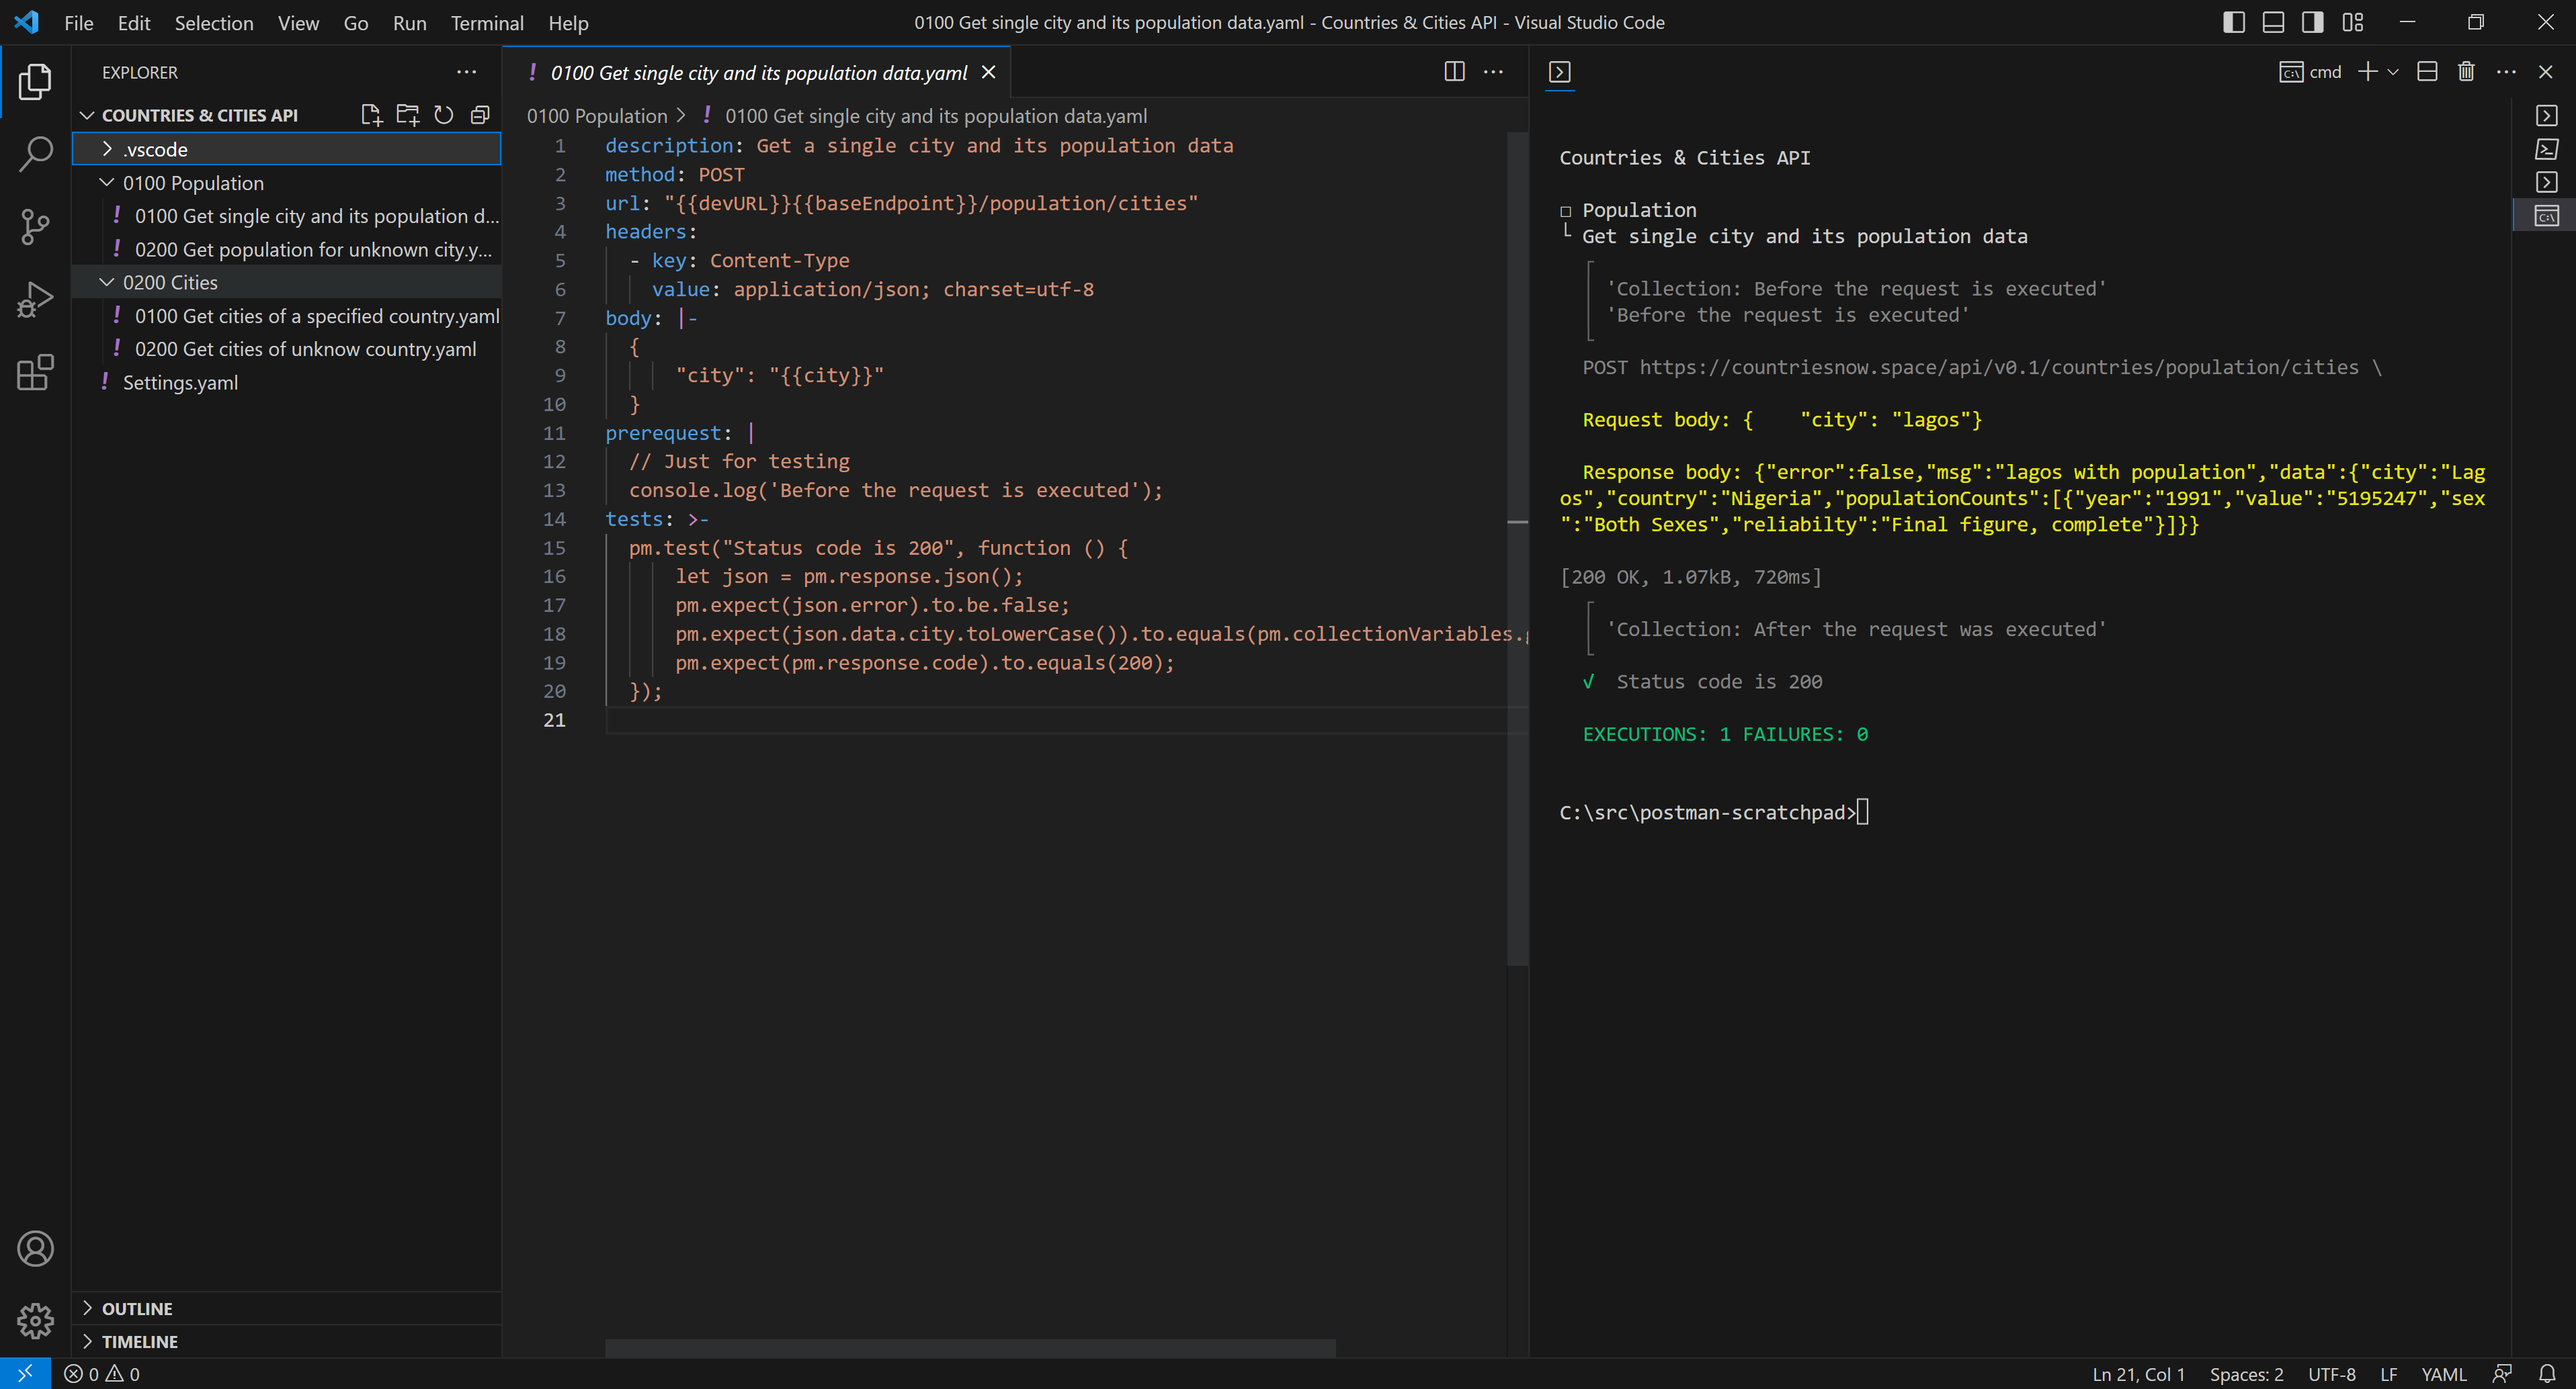
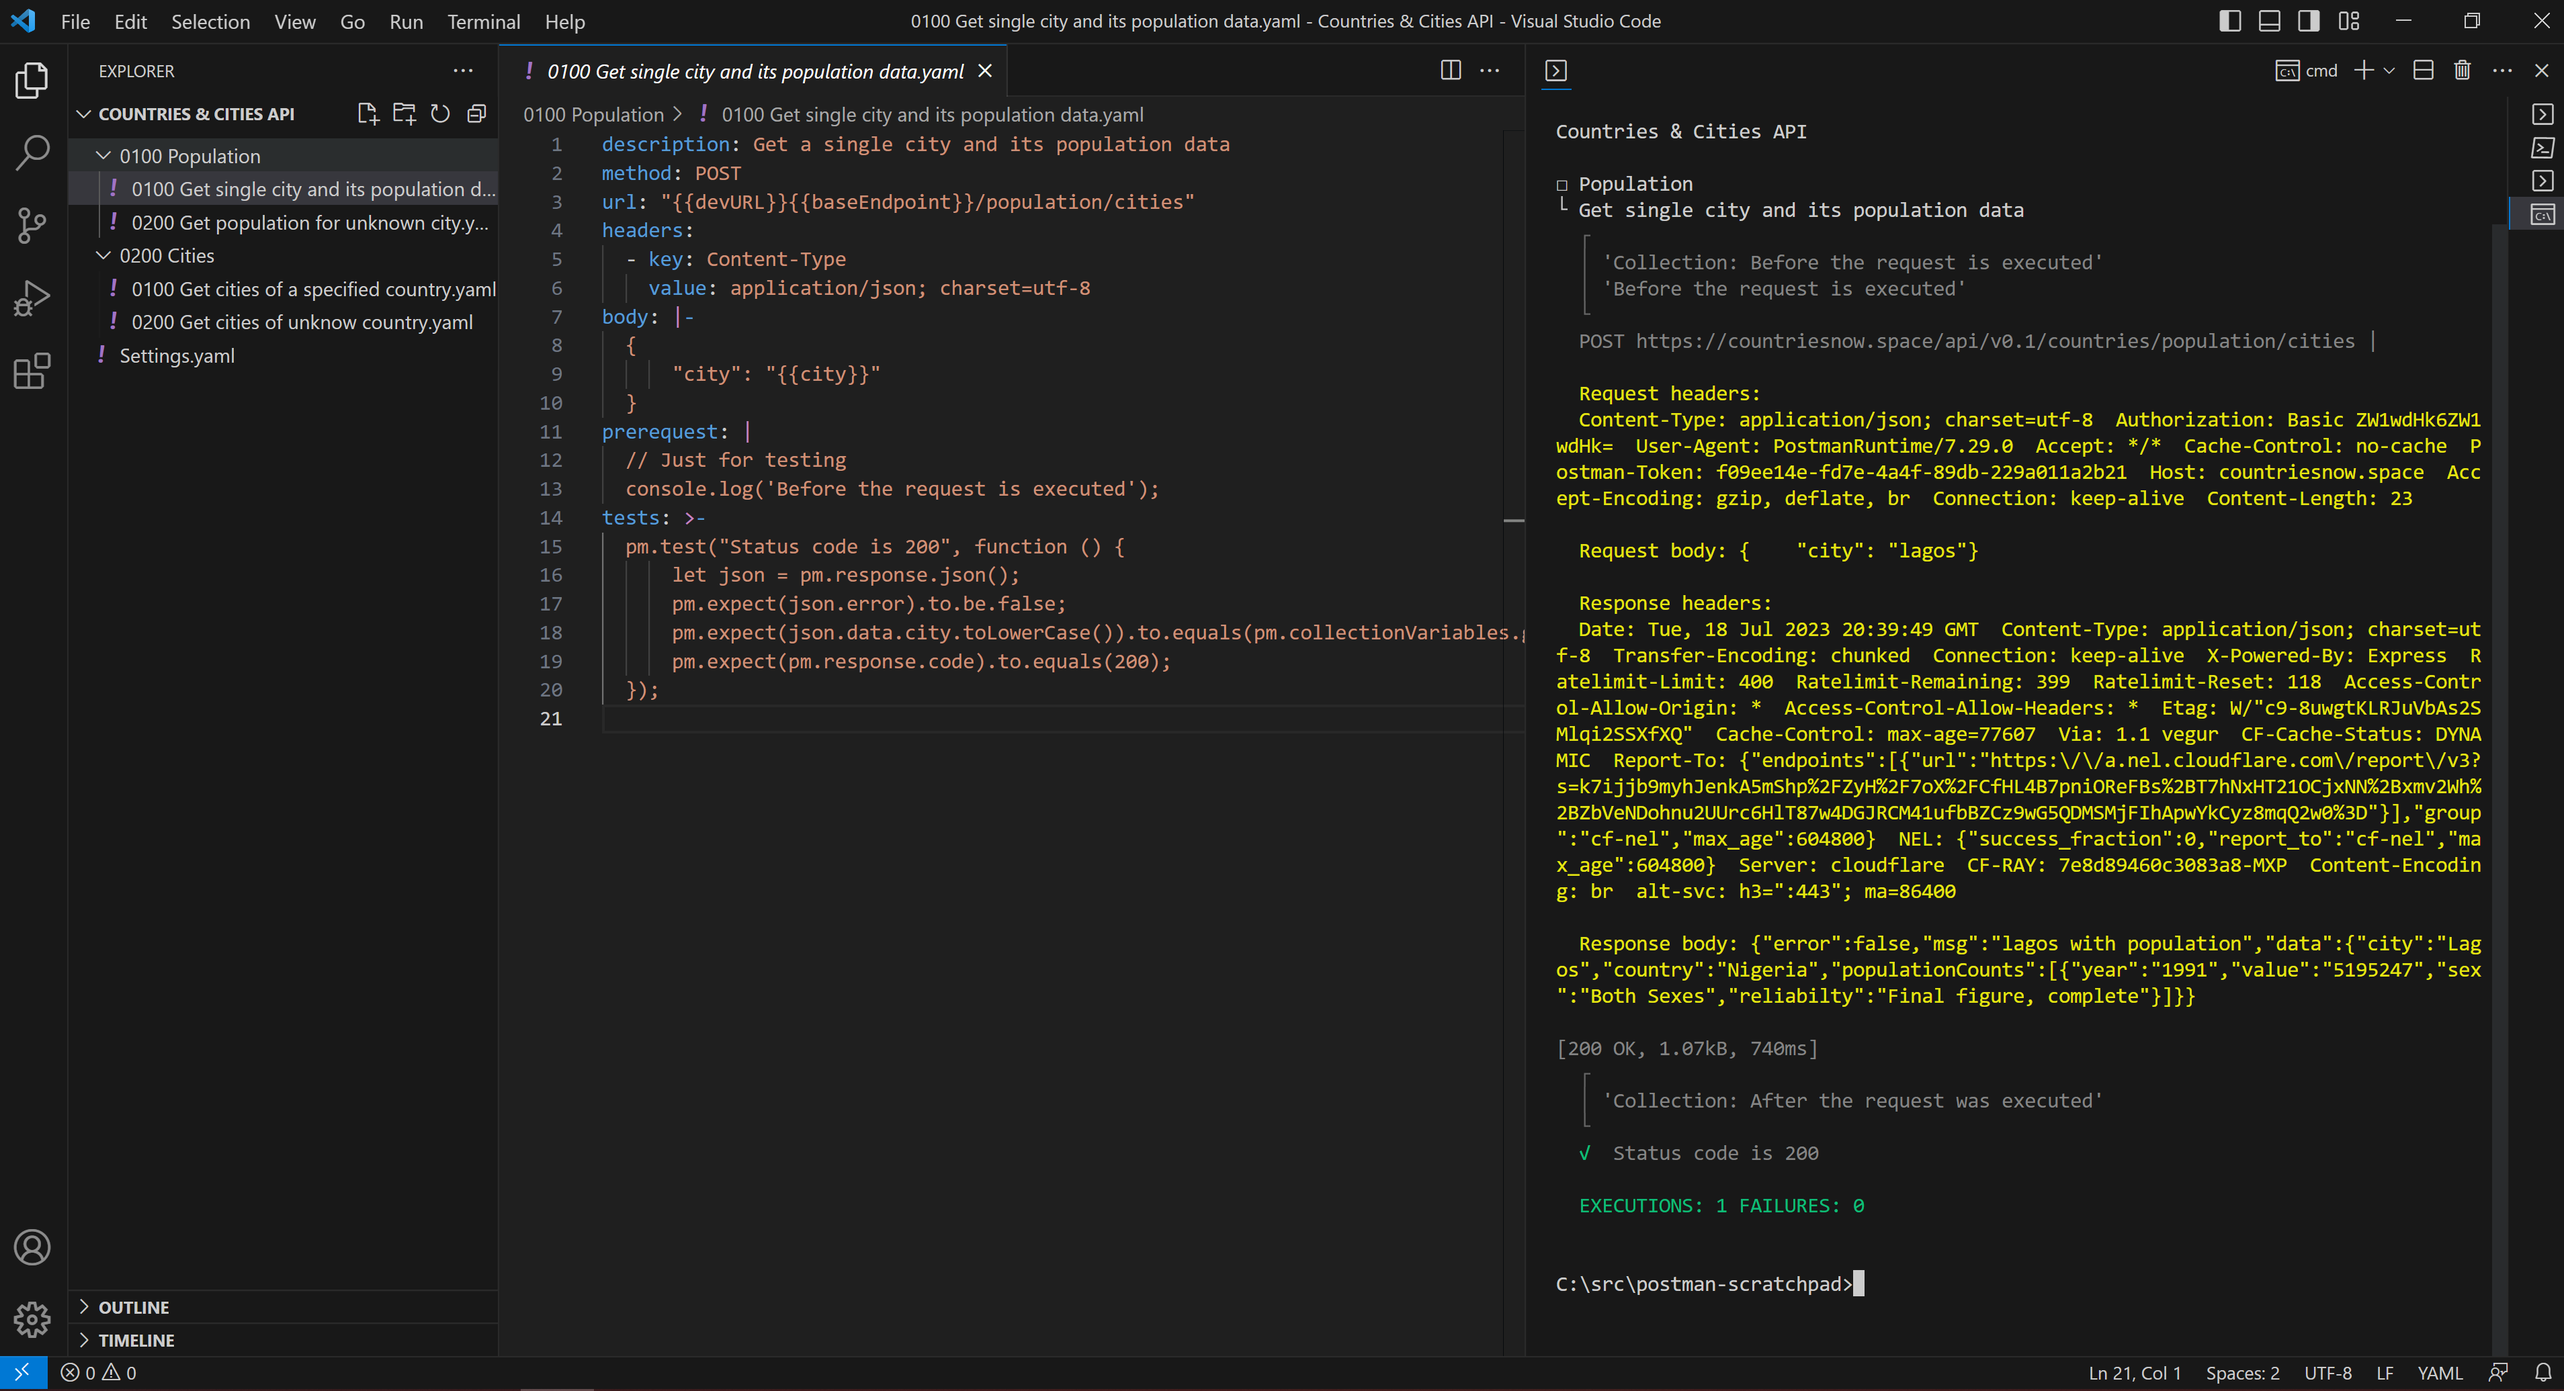
implement run.ts

diff --git a/run.ts b/run.ts
@@ -51,13 +51,25 @@ function main(args:string[]) {
 }
 
 function logRequestResponse(args: any) {
+  if (args.request.headers && args.request.headers.members) {
+    logHighlighted(`\n\n  Request headers: `);
+    args.request.headers.members.forEach(header => {
+      logHighlightedNoLn(`  ${header.key}: ${header.value}`)
+    });
+  }
   if (args.request.body) {
-    let req: string = '\n  Request body: ' + args.request.body.raw.replace(/\n/g, '');
-    logRequestResponseBody(req);
+    let req: string = '\n\n  Request body: ' + args.request.body.raw.replace(/\n/g, '');
+    logHighlighted(req);
+  }
+  if (args.response.headers && args.response.headers.members) {
+    logHighlighted(`\n  Response headers: `);
+    args.response.headers.members.forEach(header => {
+      logHighlightedNoLn(`  ${header.key}: ${header.value}`)
+    });
   }
   if (args.response.stream) {
-    let resp: string = '  Response body: ' + args.response.stream.toString().replace(/\n/g, '') + '\n';
-    logRequestResponseBody(resp);
+    let resp: string = '\n\n  Response body: ' + args.response.stream.toString().replace(/\n/g, '') + '\n';
+    logHighlighted(resp);
   }
 }
 
@@ -70,16 +82,20 @@ function displaySummary(args: any) {
   }
 }
 
-function logError(errorMessage: string) {
-  process.stderr.write(`\x1b[31m${errorMessage}\x1b[0m\n`);
+function logError(message: string) {
+  process.stderr.write(`\x1b[31m${message}\x1b[0m\n`);
 }
 
-function logSuccess(errorMessage: string) {
-  process.stderr.write(`\x1b[32m${errorMessage}\x1b[0m\n`);
+function logSuccess(message: string) {
+  process.stdout.write(`\x1b[32m${message}\x1b[0m\n`);
 }
 
-function logRequestResponseBody(errorMessage: string) {
-  process.stderr.write(`\n\x1b[33m${errorMessage}\x1b[0m\n`);
+function logHighlighted(message: string) {
+  process.stdout.write(`\x1b[33m${message}\x1b[0m\n`);
+}
+
+function logHighlightedNoLn(message: string) {
+  process.stdout.write(`\x1b[33m${message}\x1b[0m`);
 }
 
 function loadInputCollectionParameter(args: string[]) {
